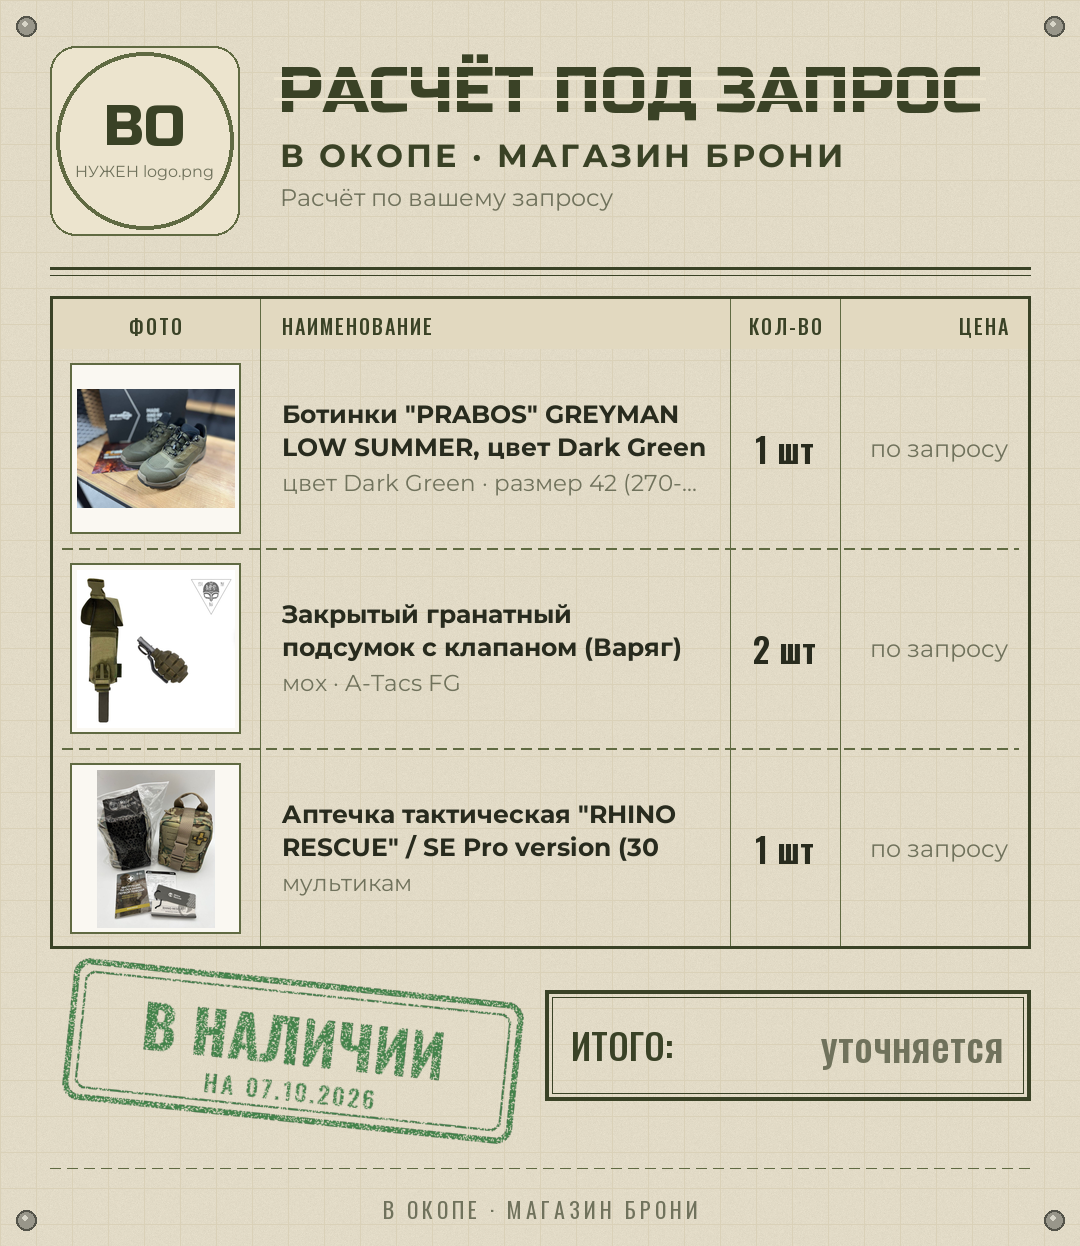
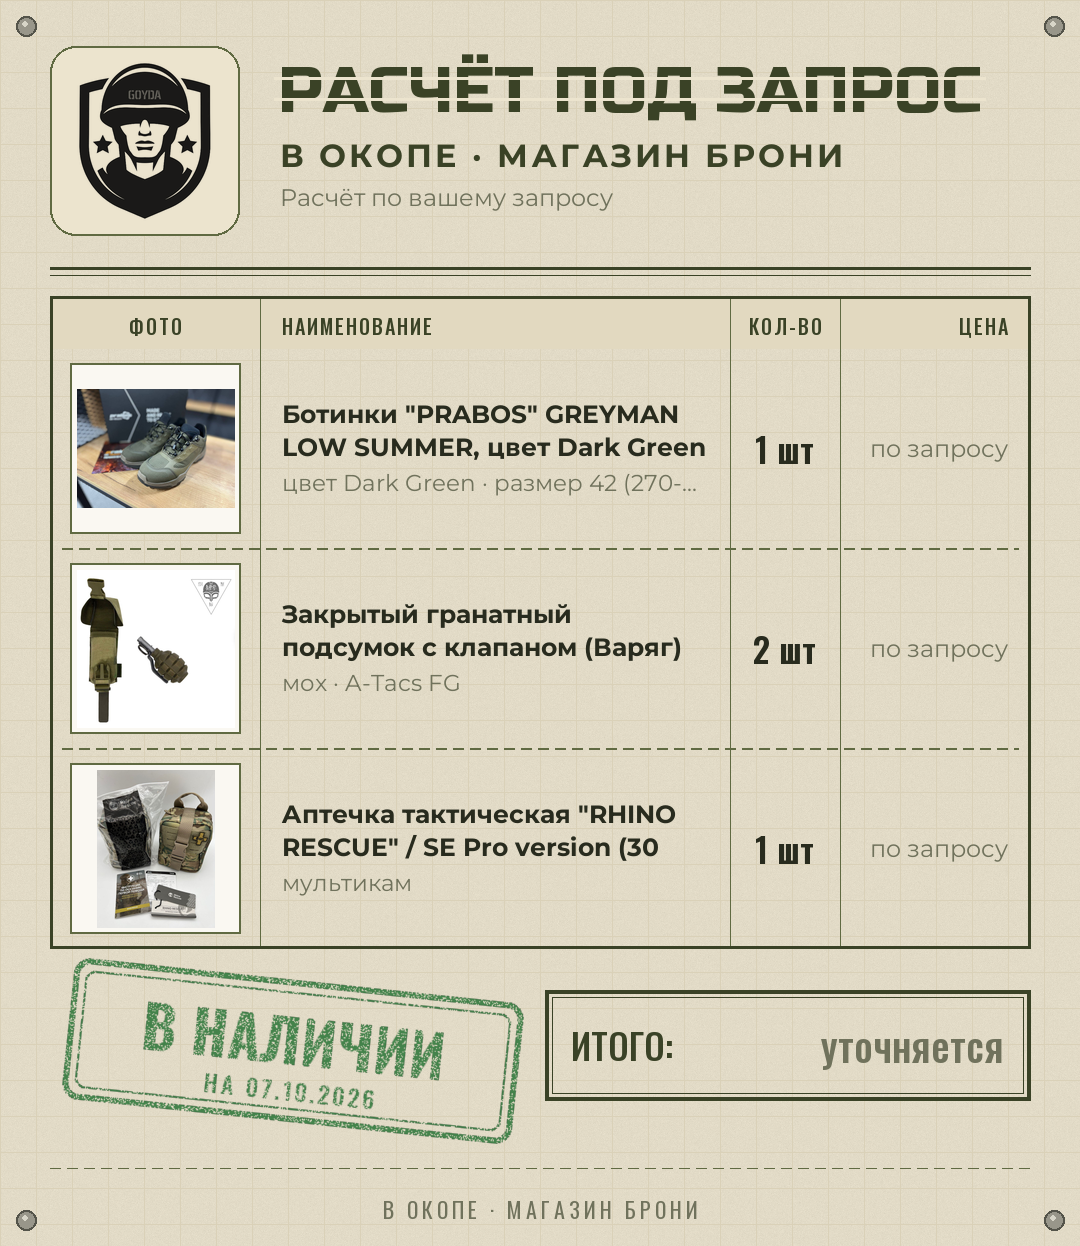
Логотип магазина из группы ВК: стоит на карточках, зафиксирован в media/

Changed region(s): [[0.0306, 0.0305, 0.2139, 0.183]]

diff --git a/docs/KNOWLEDGE_BASE.md b/docs/KNOWLEDGE_BASE.md
@@ -86,7 +86,17 @@
 для 12 ч на нагрузке ~62 Вт (цирконасос) реально нужно **≥1200–1500 Вт·ч**. Delta 3 classic **НЕ гарантирует**,
 Delta 3 1500 — гарантирует. **Никогда не считать автономность по паспортной ёмкости.**
 
-### 2.3 ОСИТИНОВ (Авито) — НА ПАУЗЕ, не трогать
+### 2.3 СВОИ РЕСУРСЫ МАГАЗИНА (используем как источник ассетов)
+
+- **Группа ВК: https://vk.com/vokope_rus** — «Военный онлайн-магазин „В окопе“» (id −222125092),
+  ~2.7 тыс. подписчиков. Там же посты, клипы, видео, товары, тема «Отзывы».
+  Контакт в шапке: +7 (999) 136-71-42. Привязанные каналы: Telegram `t.me/vokope_ru`.
+- **YouTube:** «Военный онлайн-магазин „В окопе“» — https://www.youtube.com/@V-okope/videos
+- Из группы разрешено брать **свои ассеты магазина** (логотип, фотографии товаров, снятые магазином).
+- Логотип уже забран из группы и лежит в репозитории: `media/logo.png` (герб, обработан под карточки).
+  Первоисточник — `assets/inbox/logo_vk.jpg`.
+
+### 2.4 ОСИТИНОВ (Авито) — НА ПАУЗЕ, не трогать
 
 - Два канала: `avito.ru/brands/i193975637`, `avito.ru/brands/i26882369`.
 - Все бесплатные пути парсинга Авито провалились (429 + hCaptcha; 486 прокси — 0 прошли; Tor — капча).
@@ -135,7 +145,8 @@ Delta 3 1500 — гарантирует. **Никогда не считать а
 
 ## 6. Открытые вопросы к владельцу
 
-- `media/logo.png` — логотип «В ОКОПЕ» (900×900) для шапки карточек. **Нужен файл.**
-- Шрифты `PTSans-Regular/Bold` — положить в `media/fonts/` (RussoOne и Oswald уже есть в репозитории).
+- Логотип — **закрыт**: взят из группы ВК, стоит на карточках (`media/logo.png`).
+- Шрифты `PTSans-Regular/Bold` — положить в `media/fonts/` (RussoOne и Oswald уже есть в репозитории);
+  пока в текстах карточек используется Montserrat.
 - Политика цен для постов ВК: указывать розницу (свою) или писать «цена в личку»?
 - Цены на позиции Димы: розница = закуп + X? (для электростанций правило +10 % уже зафиксировано)
